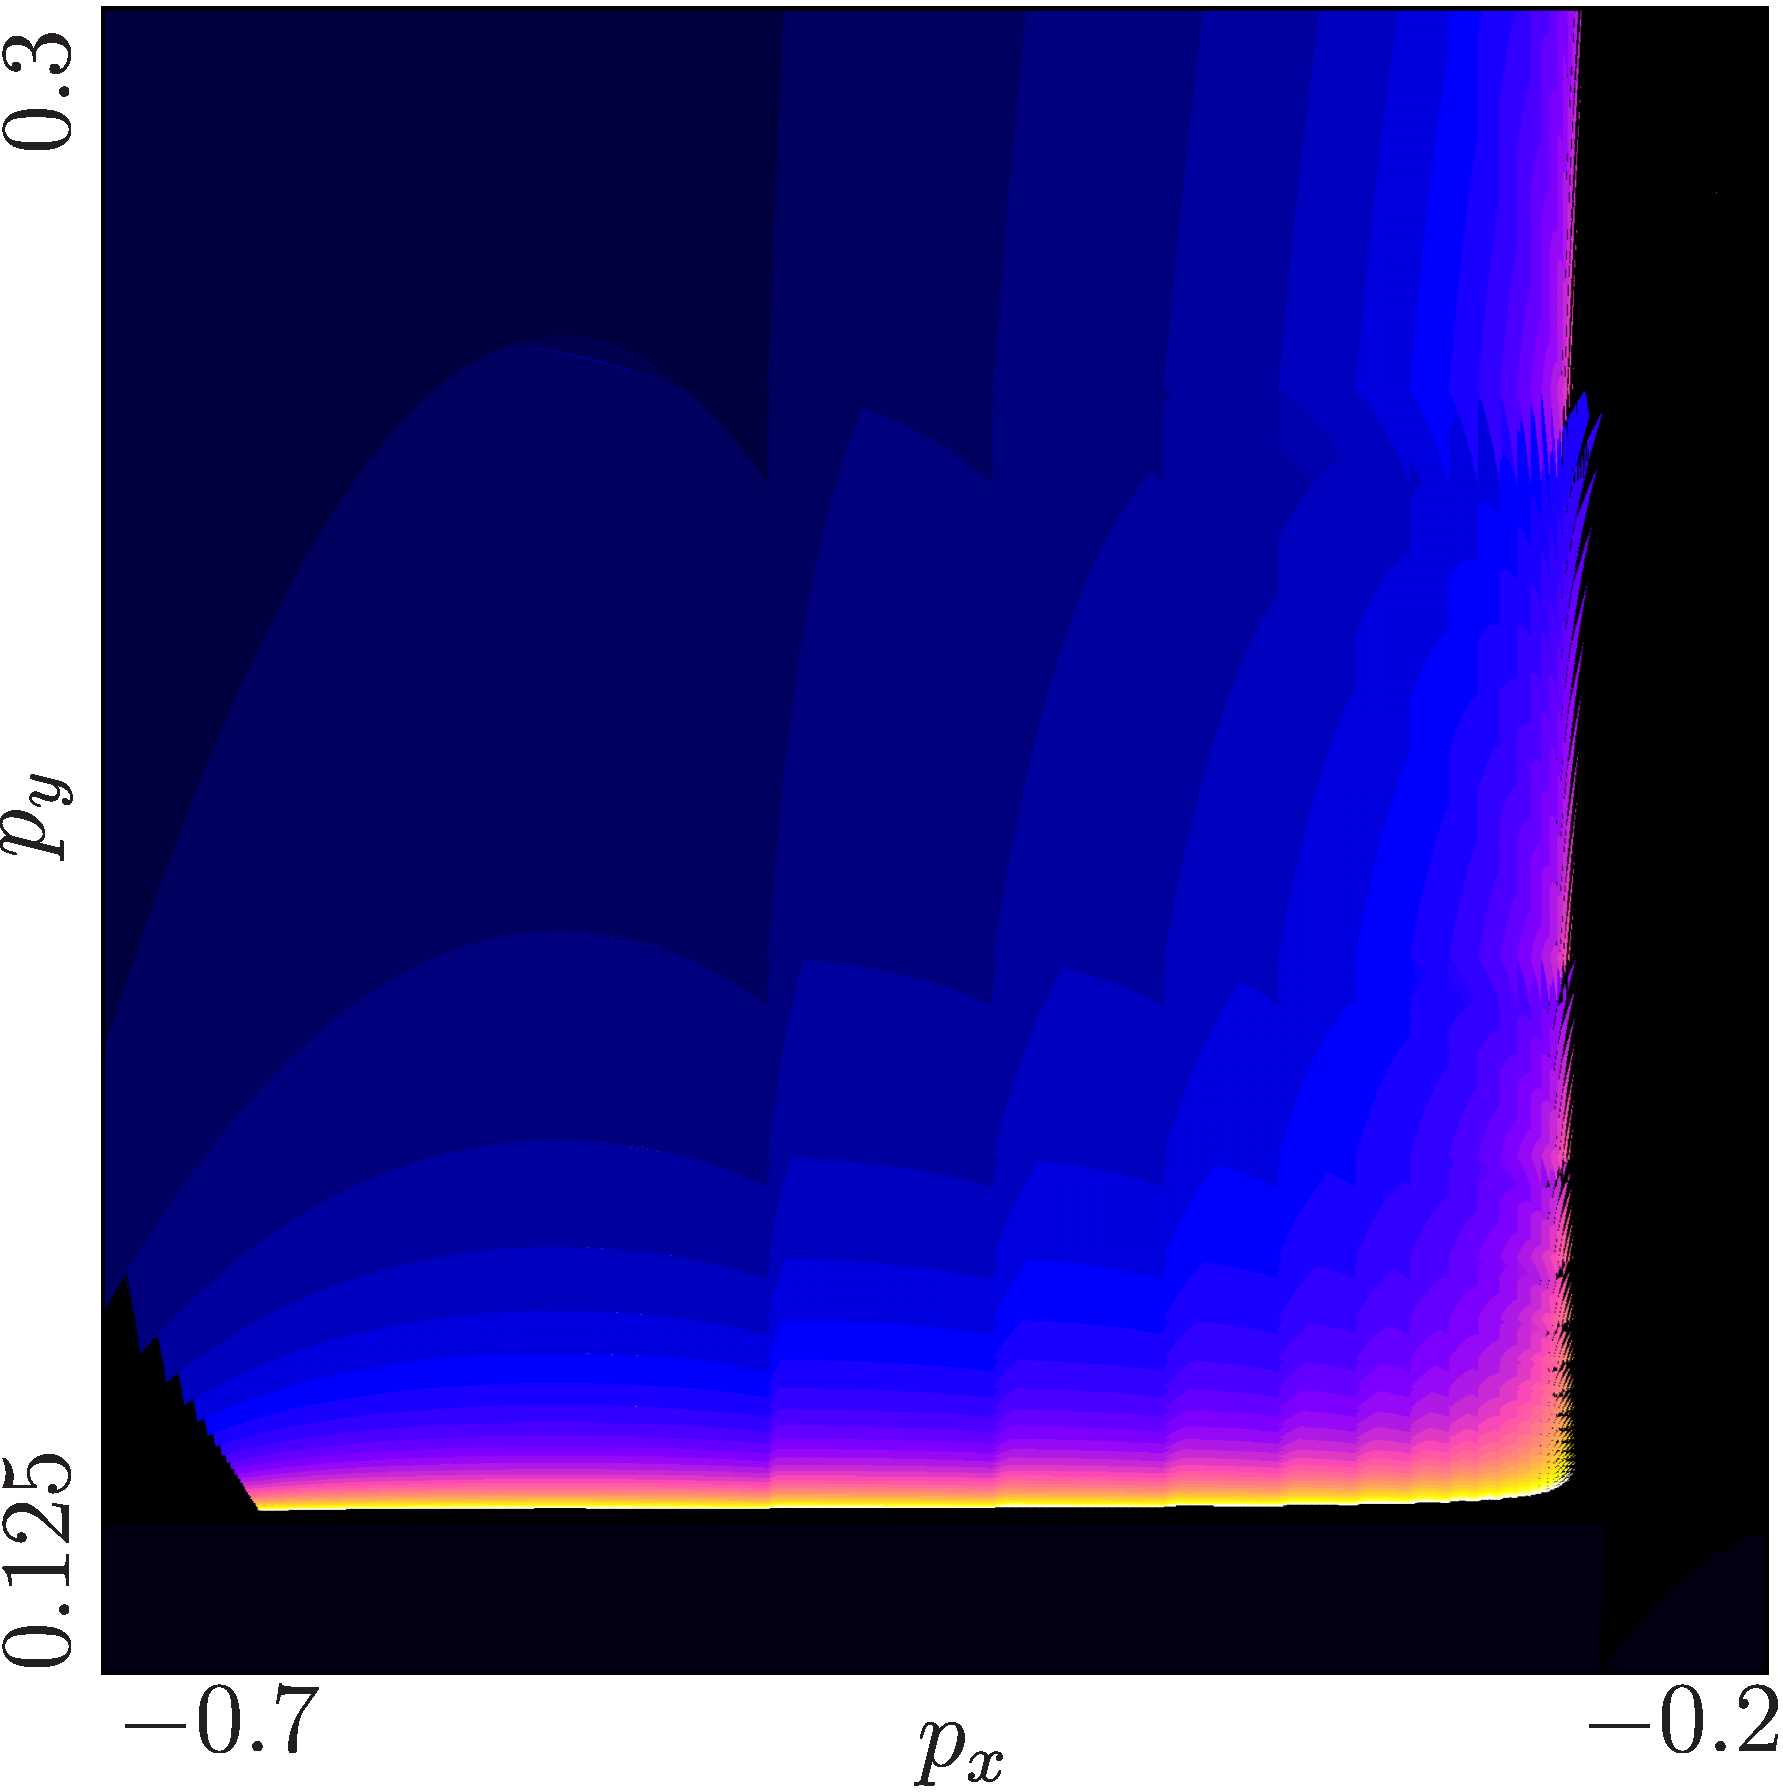
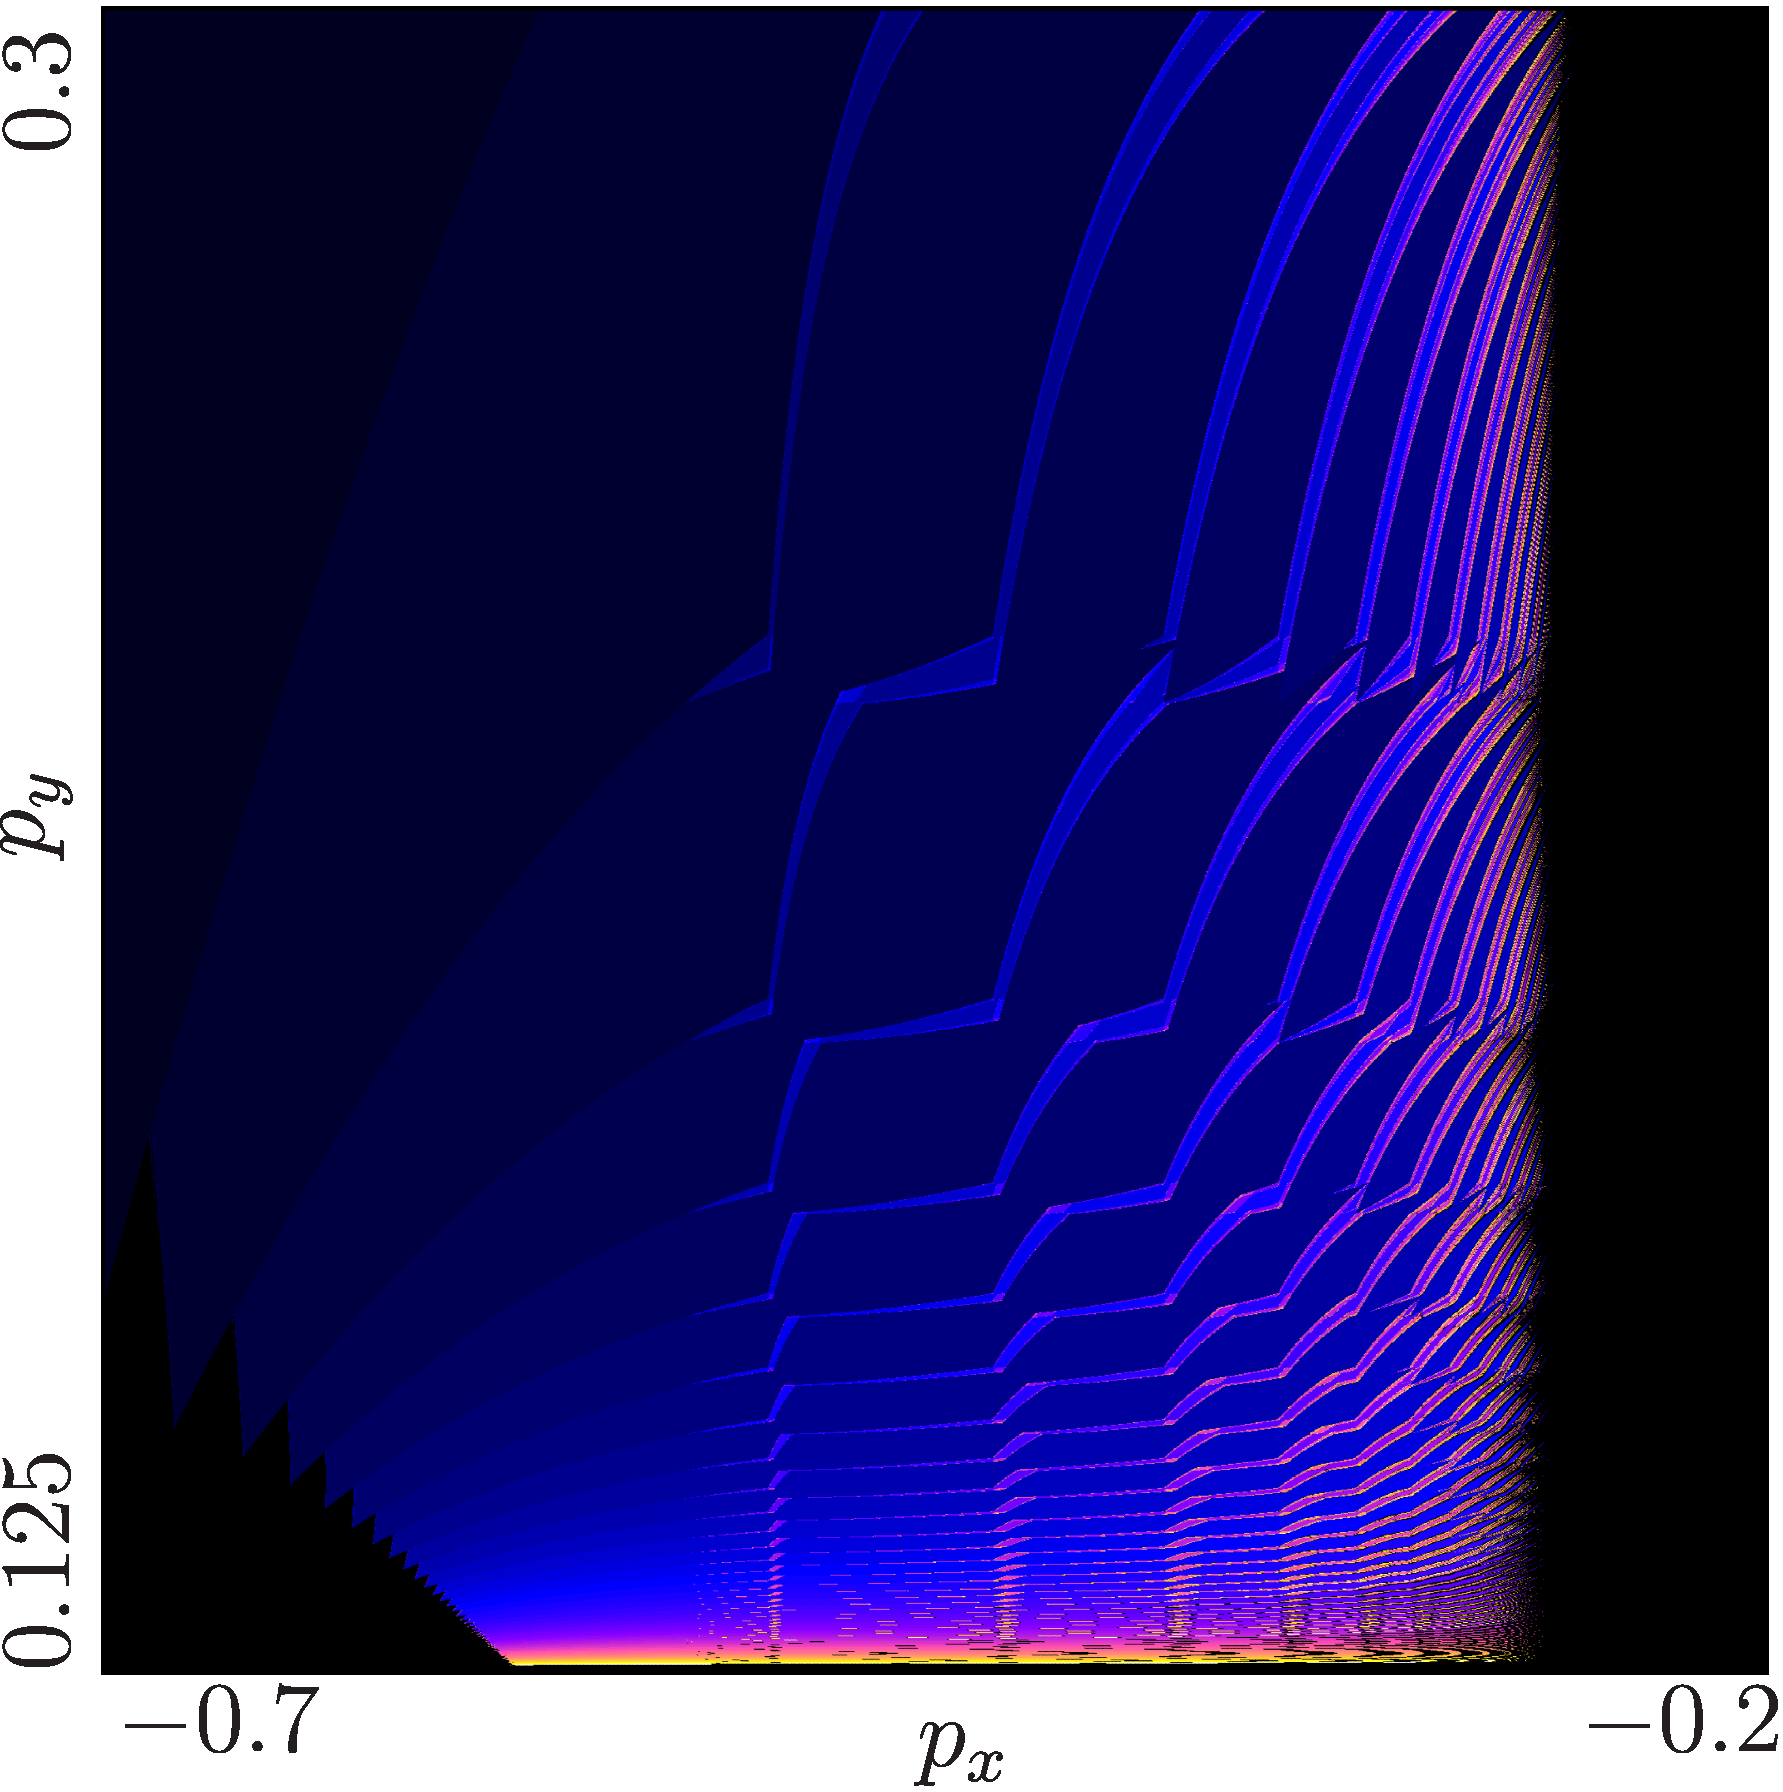
fix some pictures

diff --git a/Simulation/Models/70_010_SearchAdding_rotL/model.cpp b/Simulation/Models/70_010_SearchAdding_rotL/model.cpp
@@ -47,8 +47,8 @@ bool f(
     }
 
     // Normalize
-    if (y >= 2 * n) {
-        y -= 2 * n;
+    if (y >= 1 * n) {
+        y -= 1 * n;
     }
 
     RHS[0] = y;
